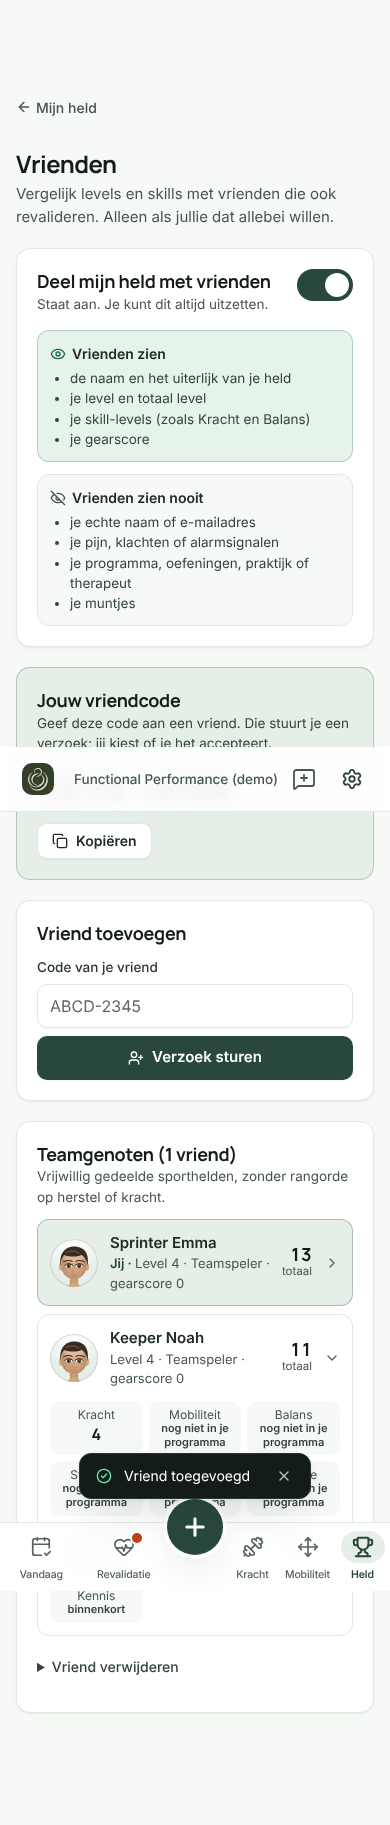
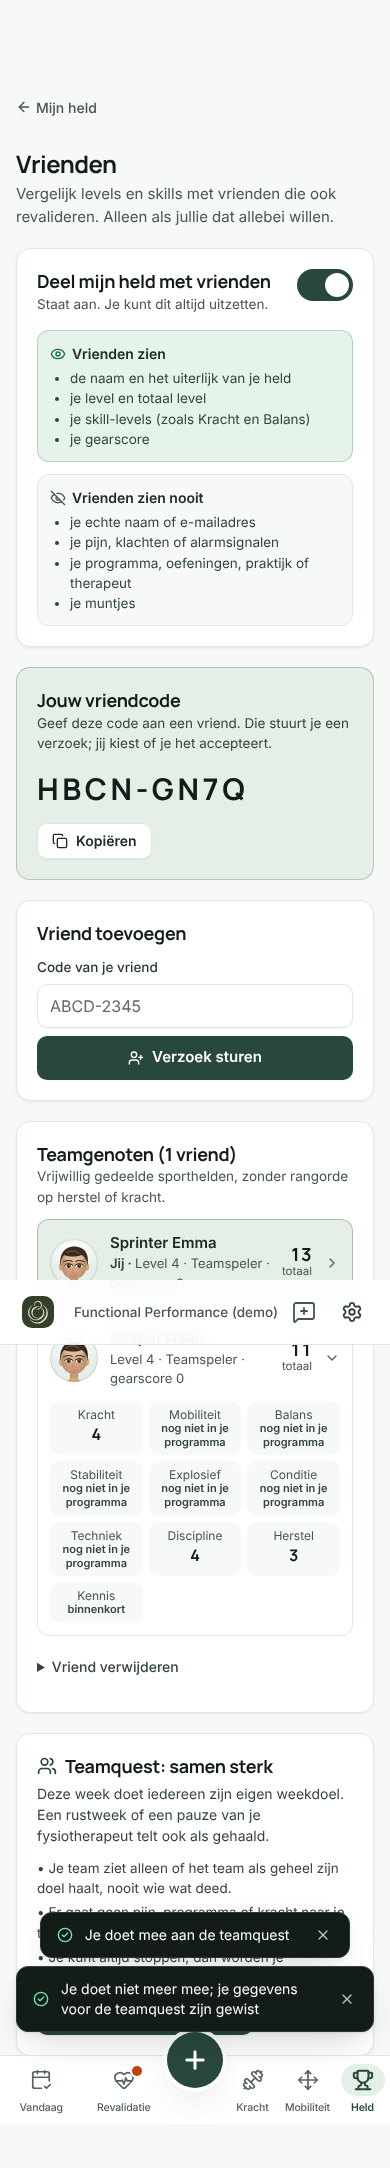
Team quest with companions: one group goal, privacy first
Separate opt-in on top of friend sharing. Each patient writes only their
own yes/no for the week (own weekly goal done; a rest week or an open
medical stop counts as done). A SECURITY DEFINER function returns only
group counts for the logged-in patient; the app shows a status only from
five participants and never who did what. No XP or coins hang on it.
Leaving, or switching sharing off, removes the snapshot at once.

Claude-Session: https://claude.ai/code/session_01LX8STJNNDwUxbGDdeQr5p6

Changed region(s): [[0.0308, 0.0312, 0.9846, 0.9682]]

diff --git a/server/src/routes/hero.ts b/server/src/routes/hero.ts
@@ -1,3 +1,4 @@
+import { teamWeekSummary } from '../../../shared/teamQuest';
 import { Hono } from 'hono';
 import { config } from '../config';
 import { z } from 'zod';
@@ -184,6 +185,10 @@ async function heroState(tx: Tx, patientId: string) {
     bossesDefeated++;
   }
   bossWeeks.push({ weekStart: thisWeek, bossDefeated: boss.defeated });
+  // Team quest: my own weekly goal is done, or this week asks nothing (rest) or there is an open
+  // medical stop. Only this yes/no ever reaches the team, as part of a group count.
+  const medicalHold = (await tx.query('SELECT 1 FROM red_flag_reports WHERE patient_id = $1 AND handled_at IS NULL LIMIT 1', [patientId])).rows.length > 0;
+  const teamDone = fullWeek.planned === 0 || medicalHold || !!quests.find((x) => x.key === 'train')?.done;
   // Monthly seasons: three weekly bosses in a month beat the season boss (XP and a trophy).
   const seasonList = seasons(bossWeeks);
   const seasonsWon = seasonList.filter((x) => x.won).length;
@@ -303,6 +308,7 @@ async function heroState(tx: Tx, patientId: string) {
     quest,
     weekly: { weekStart: thisWeek, quests, chestWeeks, xpPerQuest: QUEST_XP, chestXp: CHEST_XP, links: questLinks, boss: { ...boss, xp: BOSS_XP }, bossesDefeated,
       // This month's season and the trophies of seasons won (newest first).
+      teamDone,
       season: { ...season, xp: SEASON_XP, trophies: seasonList.filter((x) => x.won).map((x) => ({ month: x.month, key: x.key })).reverse() } },
     // Coins stay with the patient: never on the friend card or the professional's view.
     gear: { owned, equipped, coins: Math.max(0, earned - spent), earned, spent, score: gearScore(equipped) },
@@ -347,10 +353,15 @@ heroPatient.get('/hero', async (c) => {
     await withUser(user.id, async (tx) => {
       const state = await heroState(tx, patient.id);
       await refreshFriendCard(tx, patient.id, state);
+      const team = await teamView(tx, patient.id, state);
       // A personal photo (own likeness, by request) replaces the generated one on this account only.
       const guest = state.hero?.photoKey && config.heroGuests.has(state.hero.photoKey) ? state.hero.photoKey : null;
+      // teamDone is my own answer: it stays server-side, only the group status goes out.
+      const { teamDone: _own, ...weekly } = state.weekly;
       return {
         ...state,
+        weekly,
+        team,
         customPhoto: config.personalHeroPhotos.get(user.email.toLowerCase()) ?? guest,
         heroGuests: [...config.heroGuests].map(([key, name]) => ({ key, name })),
       };
@@ -371,6 +382,19 @@ export const friendCard = (s: HeroStateT) => ({
   gearScore: s.gear.score,
   skills: Object.fromEntries(s.skills.map((k) => [k.key, friendSkillCard(k)])) as Record<SkillKey, ReturnType<typeof friendSkillCard>>,
 });
+
+/** Write my own team snapshot (this week, done or not) and read the group's coarse status. */
+async function teamView(tx: Tx, patientId: string, state: HeroStateT) {
+  const row = (await tx.query('SELECT share_with_friends, team_opt_in, team_week, team_done FROM patient_heroes WHERE patient_id = $1', [patientId])).rows[0];
+  const enabled = !!row?.share_with_friends && !!row?.team_opt_in;
+  if (!enabled) return { enabled: false, canJoin: !!row?.share_with_friends, available: false as const, status: 'not_started' as const };
+  const week = state.weekly.weekStart;
+  const iso = (d: Date | string | null) => (d ? (typeof d === 'string' ? d.slice(0, 10) : d.toLocaleDateString('sv-SE')) : null);
+  if (iso(row.team_week) !== week || row.team_done !== state.weekly.teamDone)
+    await tx.query('UPDATE patient_heroes SET team_week = $2, team_done = $3 WHERE patient_id = $1', [patientId, week, state.weekly.teamDone]);
+  const c = (await tx.query('SELECT participants, contributed FROM app.hero_team_week($1, $2::date)', [patientId, week])).rows[0];
+  return { enabled: true, canJoin: true, ...teamWeekSummary(c?.participants ?? 0, c?.contributed ?? 0) };
+}
 
 /** Update the shared card when the patient shares and something changed. */
 async function refreshFriendCard(tx: Tx, patientId: string, state?: HeroStateT) {
@@ -434,11 +458,29 @@ heroPatient.put('/hero/sharing', async (c) => {
       } else {
         await tx.query('SELECT app.hero_friends_clear($1)', [patient.id]);
         await tx.query(
-          'UPDATE patient_heroes SET share_with_friends = false, friend_code = NULL, shared_stats = NULL, stats_updated_at = NULL WHERE patient_id = $1',
+          'UPDATE patient_heroes SET share_with_friends = false, friend_code = NULL, shared_stats = NULL, stats_updated_at = NULL, team_opt_in = false, team_week = NULL, team_done = NULL WHERE patient_id = $1',
           [patient.id],
         );
       }
       return friendsView(tx, patient.id);
+    }),
+  );
+});
+
+/** Join or leave the team quest. Needs friend sharing; leaving removes my snapshot right away. */
+heroPatient.put('/hero/team', async (c) => {
+  const { user, patient } = requirePatient(c);
+  const b = parse(z.object({ enabled: z.boolean() }), await c.req.json());
+  return c.json(
+    await withUser(user.id, async (tx) => {
+      const me = (await tx.query('SELECT share_with_friends FROM patient_heroes WHERE patient_id = $1', [patient.id])).rows[0];
+      if (!me) throw badRequest('hero_required');
+      if (b.enabled && !me.share_with_friends) throw badRequest('sharing_off');
+      await tx.query(
+        b.enabled ? 'UPDATE patient_heroes SET team_opt_in = true WHERE patient_id = $1' : 'UPDATE patient_heroes SET team_opt_in = false, team_week = NULL, team_done = NULL WHERE patient_id = $1',
+        [patient.id],
+      );
+      return teamView(tx, patient.id, await heroState(tx, patient.id));
     }),
   );
 });

diff --git a/server/test/team-quest.test.ts b/server/test/team-quest.test.ts
@@ -1,0 +1,77 @@
+import { describe, it, expect, beforeAll } from 'vitest';
+import pg from 'pg';
+import { login, seedDb } from './helpers';
+import { resetRateLimits } from '../src/lib/rateLimit';
+
+const ownerQuery = async (sql: string, params: unknown[] = []) => {
+  const db = new pg.Client({ connectionString: process.env.DATABASE_OWNER_URL });
+  await db.connect();
+  try {
+    return await db.query(sql, params);
+  } finally {
+    await db.end();
+  }
+};
+
+
+beforeAll(async () => {
+  await seedDb();
+  resetRateLimits();
+});
+
+const LOOK = { frame: 'f', build: 'athletic', skin: 's3', hair: 'long', hairColor: 'blond', eyeColor: 'blue', beard: 'none', glasses: 'none', outfit: 'forest', sport: 'running' };
+
+describe('team quest with companions', () => {
+  it('needs friend sharing and its own opt-in; shows only a status, and only from five participants', async () => {
+    const emma = await login('patientA');
+    await emma.put('/patient/hero', { ...LOOK, heroName: 'Emma' });
+    // Not without sharing; off by default.
+    expect((await emma.get('/patient/hero')).body.team).toMatchObject({ enabled: false, canJoin: false, available: false });
+    expect((await emma.put('/patient/hero/team', { enabled: true })).body.error).toBe('sharing_off');
+    await emma.put('/patient/hero/sharing', { enabled: true });
+    const joined = (await emma.put('/patient/hero/team', { enabled: true })).body;
+    // Alone: no status at all.
+    expect(joined).toEqual({ enabled: true, canJoin: true, available: false, status: 'not_started' });
+
+    // Four synthetic companions who share and joined the team quest, all done this week.
+    const emmaId = (await ownerQuery(`SELECT p.id, p.practice_id FROM patients p JOIN users u ON u.id = p.user_id WHERE u.email = 'patient@praktijk-a.test'`)).rows[0];
+    const week = (await emma.get('/patient/hero')).body.weekly.weekStart as string;
+    for (let i = 0; i < 4; i++) {
+      const p = (await ownerQuery(`INSERT INTO patients(practice_id, first_name, last_name) VALUES ($1, 'Team', $2) RETURNING id`, [emmaId.practice_id, `Lid ${i}`])).rows[0];
+      await ownerQuery(
+        `INSERT INTO patient_heroes(patient_id, practice_id, hero_name, skin, hair, outfit, sport, share_with_friends, team_opt_in, team_week, team_done)
+         VALUES ($1, $2, $3, 's3', 'long', 'forest', 'running', true, true, $4, true)`,
+        [p.id, emmaId.practice_id, `Lid ${i}`, week],
+      );
+      await ownerQuery(`INSERT INTO hero_friendships(requester_id, addressee_id, status, accepted_at) VALUES ($1, $2, 'accepted', now())`, [emmaId.id, p.id]);
+    }
+    const team = (await emma.get('/patient/hero')).body.team;
+    expect(team.available).toBe(true);
+    expect(team.participantsBand).toBe('5+');
+    expect(['in_progress', 'complete']).toContain(team.status);
+    // Only these keys: never who did what, how many, or my own answer.
+    expect(Object.keys(team).sort()).toEqual(['available', 'canJoin', 'enabled', 'participantsBand', 'status']);
+    expect(JSON.stringify((await emma.get('/patient/hero')).body)).not.toMatch(/teamDone|contributed|participants"/);
+
+    // Leaving clears the snapshot at once; switching sharing off also leaves the team.
+    expect((await emma.put('/patient/hero/team', { enabled: false })).body).toMatchObject({ enabled: false, available: false });
+    const row = (await ownerQuery('SELECT team_opt_in, team_week, team_done FROM patient_heroes WHERE patient_id = $1', [emmaId.id])).rows[0];
+    expect(row).toEqual({ team_opt_in: false, team_week: null, team_done: null });
+    await emma.put('/patient/hero/team', { enabled: true });
+    await emma.put('/patient/hero/sharing', { enabled: false });
+    expect((await ownerQuery('SELECT team_opt_in FROM patient_heroes WHERE patient_id = $1', [emmaId.id])).rows[0].team_opt_in).toBe(false);
+  });
+
+  it('the group function only works for the logged-in patient', async () => {
+    const lid = (await ownerQuery(`SELECT id FROM patients WHERE last_name = 'Lid 1'`)).rows[0].id;
+    const db = new pg.Client({ connectionString: process.env.DATABASE_URL });
+    await db.connect();
+    try {
+      // As the app role but without a logged-in user, nobody counts.
+      const r = await db.query('SELECT participants, contributed FROM app.hero_team_week($1, current_date)', [lid]);
+      expect(r.rows[0]).toEqual({ participants: 0, contributed: 0 });
+    } finally {
+      await db.end();
+    }
+  });
+});

diff --git a/web/src/pages/patient/FriendsPage.tsx b/web/src/pages/patient/FriendsPage.tsx
@@ -279,6 +279,8 @@ export function FriendsPage() {
             )}
           </section>
 
+          {hero.data && <TeamQuest d={hero.data} />}
+
           {outgoing.length > 0 && (
             <section className="rounded-2xl border border-line bg-white p-5 shadow-card" aria-labelledby="outgoing-title">
               <h2 id="outgoing-title" className="t-section">{t('Wacht op antwoord', 'Waiting for an answer')}</h2>
@@ -325,6 +327,59 @@ export function FriendsPage() {
 }
 
 /** Entry on the character sheet. */
+/**
+ * Team quest: together everyone does their own weekly goal. Separate consent on top of friend
+ * sharing. The team only ever sees a group status, and only from five participants, so nobody's
+ * week can be singled out. No XP or coins hang on it: no reason to train through pain for others.
+ */
+function TeamQuest({ d }: { d: import('@/lib/types').HeroState }) {
+  const { t, locale } = useI18n();
+  const qc = useQueryClient();
+  const toast = useToast();
+  const [busy, setBusy] = useState(false);
+  const team = d.team;
+  if (!team) return null;
+  const set = async (enabled: boolean) => {
+    setBusy(true);
+    try {
+      await api.put('/patient/hero/team', { enabled });
+      await qc.invalidateQueries({ queryKey: ['patient-hero'] });
+      toast(enabled ? t('Je doet mee aan de teamquest', 'You joined the team quest') : t('Je doet niet meer mee; je gegevens voor de teamquest zijn gewist', 'You left; your team quest data is removed'), 'ok');
+    } catch (e) {
+      toast(describeError(e, locale), 'bad');
+    } finally {
+      setBusy(false);
+    }
+  };
+  const status = !team.available
+    ? t('Nog niet genoeg deelnemers. De teamquest start vanaf 5 teamgenoten die meedoen, zodat niemand herkenbaar is.', 'Not enough participants yet. The team quest starts from 5 companions who join, so nobody can be singled out.')
+    : team.status === 'complete'
+      ? t('Gehaald! Iedereen heeft deze week zijn eigen doel gedaan. 🎉', 'Done! Everyone did their own goal this week. 🎉')
+      : t('Bezig: nog niet iedereen heeft zijn weekdoel gedaan. Er is nog tijd.', 'In progress: not everyone has done their weekly goal yet. There is still time.');
+  return (
+    <section className="rounded-2xl border border-line bg-white p-5 shadow-card" aria-labelledby="team-title">
+      <h2 id="team-title" className="t-section flex items-center gap-2"><Users className="h-5 w-5 text-accent" aria-hidden />{t('Teamquest: samen sterk', 'Team quest: stronger together')}</h2>
+      <p className="mt-1 text-[14px] text-ink-700">{t('Deze week doet iedereen zijn eigen weekdoel. Een rustweek of een pauze van je fysiotherapeut telt ook als gehaald.', 'This week everyone does their own weekly goal. A rest week or a pause from your physiotherapist also counts as done.')}</p>
+      {team.enabled ? (
+        <>
+          <p className={cn('mt-3 rounded-xl p-3 text-[14.5px] font-medium', team.available && team.status === 'complete' ? 'bg-ok-soft text-ok' : 'bg-canvas text-ink-800')} role="status">{status}</p>
+          <Button variant="ghost" className="mt-2" loading={busy} onClick={() => set(false)}>{t('Niet meer meedoen', 'Leave the team quest')}</Button>
+        </>
+      ) : (
+        <>
+          <ul className="mt-3 space-y-1 text-[13.5px] text-ink-700">
+            <li>• {t('Je team ziet alleen of het team als geheel zijn doel haalt, nooit wie wat deed.', 'Your team only sees whether the team as a whole makes it, never who did what.')}</li>
+            <li>• {t('Er gaat geen pijn, programma of kracht naar je team.', 'No pain, programme or strength goes to your team.')}</li>
+            <li>• {t('Je kunt altijd stoppen; dan worden je teamgegevens direct gewist.', 'You can stop any time; your team data is then removed straight away.')}</li>
+          </ul>
+          <Button className="mt-3" loading={busy} disabled={!team.canJoin} onClick={() => set(true)}>{t('Meedoen aan de teamquest', 'Join the team quest')}</Button>
+          {!team.canJoin && <p className="mt-1 text-[13px] text-ink-600">{t('Zet eerst delen met vrienden aan.', 'Switch on sharing with friends first.')}</p>}
+        </>
+      )}
+    </section>
+  );
+}
+
 export function FriendsCard() {
   const { t } = useI18n();
   const q = useFriends();

diff --git a/e2e/friends.spec.ts b/e2e/friends.spec.ts
@@ -14,7 +14,7 @@ async function sql(q: string, p: unknown[] = []) {
 }
 
 const reset = () =>
-  sql(`DELETE FROM hero_friendships; UPDATE patient_heroes SET share_with_friends = false, friend_code = NULL, shared_stats = NULL, stats_updated_at = NULL`);
+  sql(`DELETE FROM hero_friendships; UPDATE patient_heroes SET share_with_friends = false, friend_code = NULL, shared_stats = NULL, stats_updated_at = NULL, team_opt_in = false, team_week = NULL, team_done = NULL`);
 test.beforeAll(reset);
 test.afterAll(reset);
 
@@ -73,6 +73,13 @@ test('two patients from different practices become friends and join without a re
   await expect(board.getByText('Kracht')).toBeVisible();
   await expect(board.getByText('Herstel')).toBeVisible();
   await expectAccessible(emma, 'friends companions');
+  // Team quest: its own opt-in; with fewer than five participants there is no status at all.
+  const team = emma.getByRole('region', { name: /Teamquest: samen sterk/ }).or(emma.locator('section[aria-labelledby="team-title"]'));
+  await team.getByRole('button', { name: 'Meedoen aan de teamquest' }).click();
+  await expect(team.getByRole('status')).toContainText('Nog niet genoeg deelnemers');
+  await expectAccessible(emma, 'team quest joined');
+  await team.getByRole('button', { name: 'Niet meer meedoen' }).click();
+  await expect(team.getByRole('button', { name: 'Meedoen aan de teamquest' })).toBeVisible();
   await emma.screenshot({ path: 'screenshots/hero/friends.png', fullPage: true });
 
   // The character sheet links to the friends page with the count.

diff --git a/server/src/routes/patientModules.ts b/server/src/routes/patientModules.ts
@@ -264,7 +264,7 @@ patientModules.get('/export', async (c) => {
       stepGoal: (await q('SELECT steps, updated_at FROM step_goals WHERE patient_id = $1'))[0] ?? null,
       stepDays: await q('SELECT day, steps, source, updated_at FROM step_days WHERE patient_id = $1 ORDER BY day'),
       fitnessConnections: await q(`SELECT provider, external_user_id, scope, connected_at, synced_at FROM fitness_connections WHERE patient_id = $1`),
-      heroSharing: (await q('SELECT share_with_friends, friend_code, shared_stats, stats_updated_at FROM patient_heroes WHERE patient_id = $1'))[0] ?? null,
+      heroSharing: (await q('SELECT share_with_friends, friend_code, shared_stats, stats_updated_at, team_opt_in, team_week, team_done FROM patient_heroes WHERE patient_id = $1'))[0] ?? null,
       heroShop: {
         purchases: await q('SELECT item, price, bought_at FROM hero_purchases WHERE patient_id = $1 ORDER BY bought_at'),
         dayChests: await q('SELECT day, coins, opened_at FROM hero_daily_chests WHERE patient_id = $1 ORDER BY day'),

diff --git a/shared/teamQuest.ts b/shared/teamQuest.ts
@@ -19,3 +19,9 @@ export function publicTeamSummary(progress:TeamProgress){
   if(progress.participants<5) return { available:false as const,status:'not_started' as const };
   return {available:true as const,participantsBand:'5+' as const,status:progress.status};
 }
+
+/** From the group counts the database returns (never per person) to the coarse public summary. */
+export function teamWeekSummary(participants: number, contributed: number) {
+  const status: TeamProgress['status'] = participants < 2 ? 'not_started' : contributed >= participants ? 'complete' : 'in_progress';
+  return publicTeamSummary({ participants, contributed: participants < 2 ? 0 : contributed, protectedRest: 0, status });
+}

diff --git a/web/src/lib/types.ts b/web/src/lib/types.ts
@@ -179,6 +179,8 @@ export type HeroState = {
   showcase: string[];
   /** Earned badges pinned on the wall behind the hero. */
   wallBadges: string[];
+  /** Team quest: only a coarse group status, shown from five participants. */
+  team?: { enabled: boolean; canJoin: boolean; available: boolean; participantsBand?: '5+'; status: 'not_started' | 'in_progress' | 'complete' };
   /** Guest heroes a patient may play as (real people who agreed). */
   heroGuests?: { key: string; name: string }[];
   hero: (import('@shared/hero').HeroLook & { createdAt: string; gear?: string[] }) | null;
